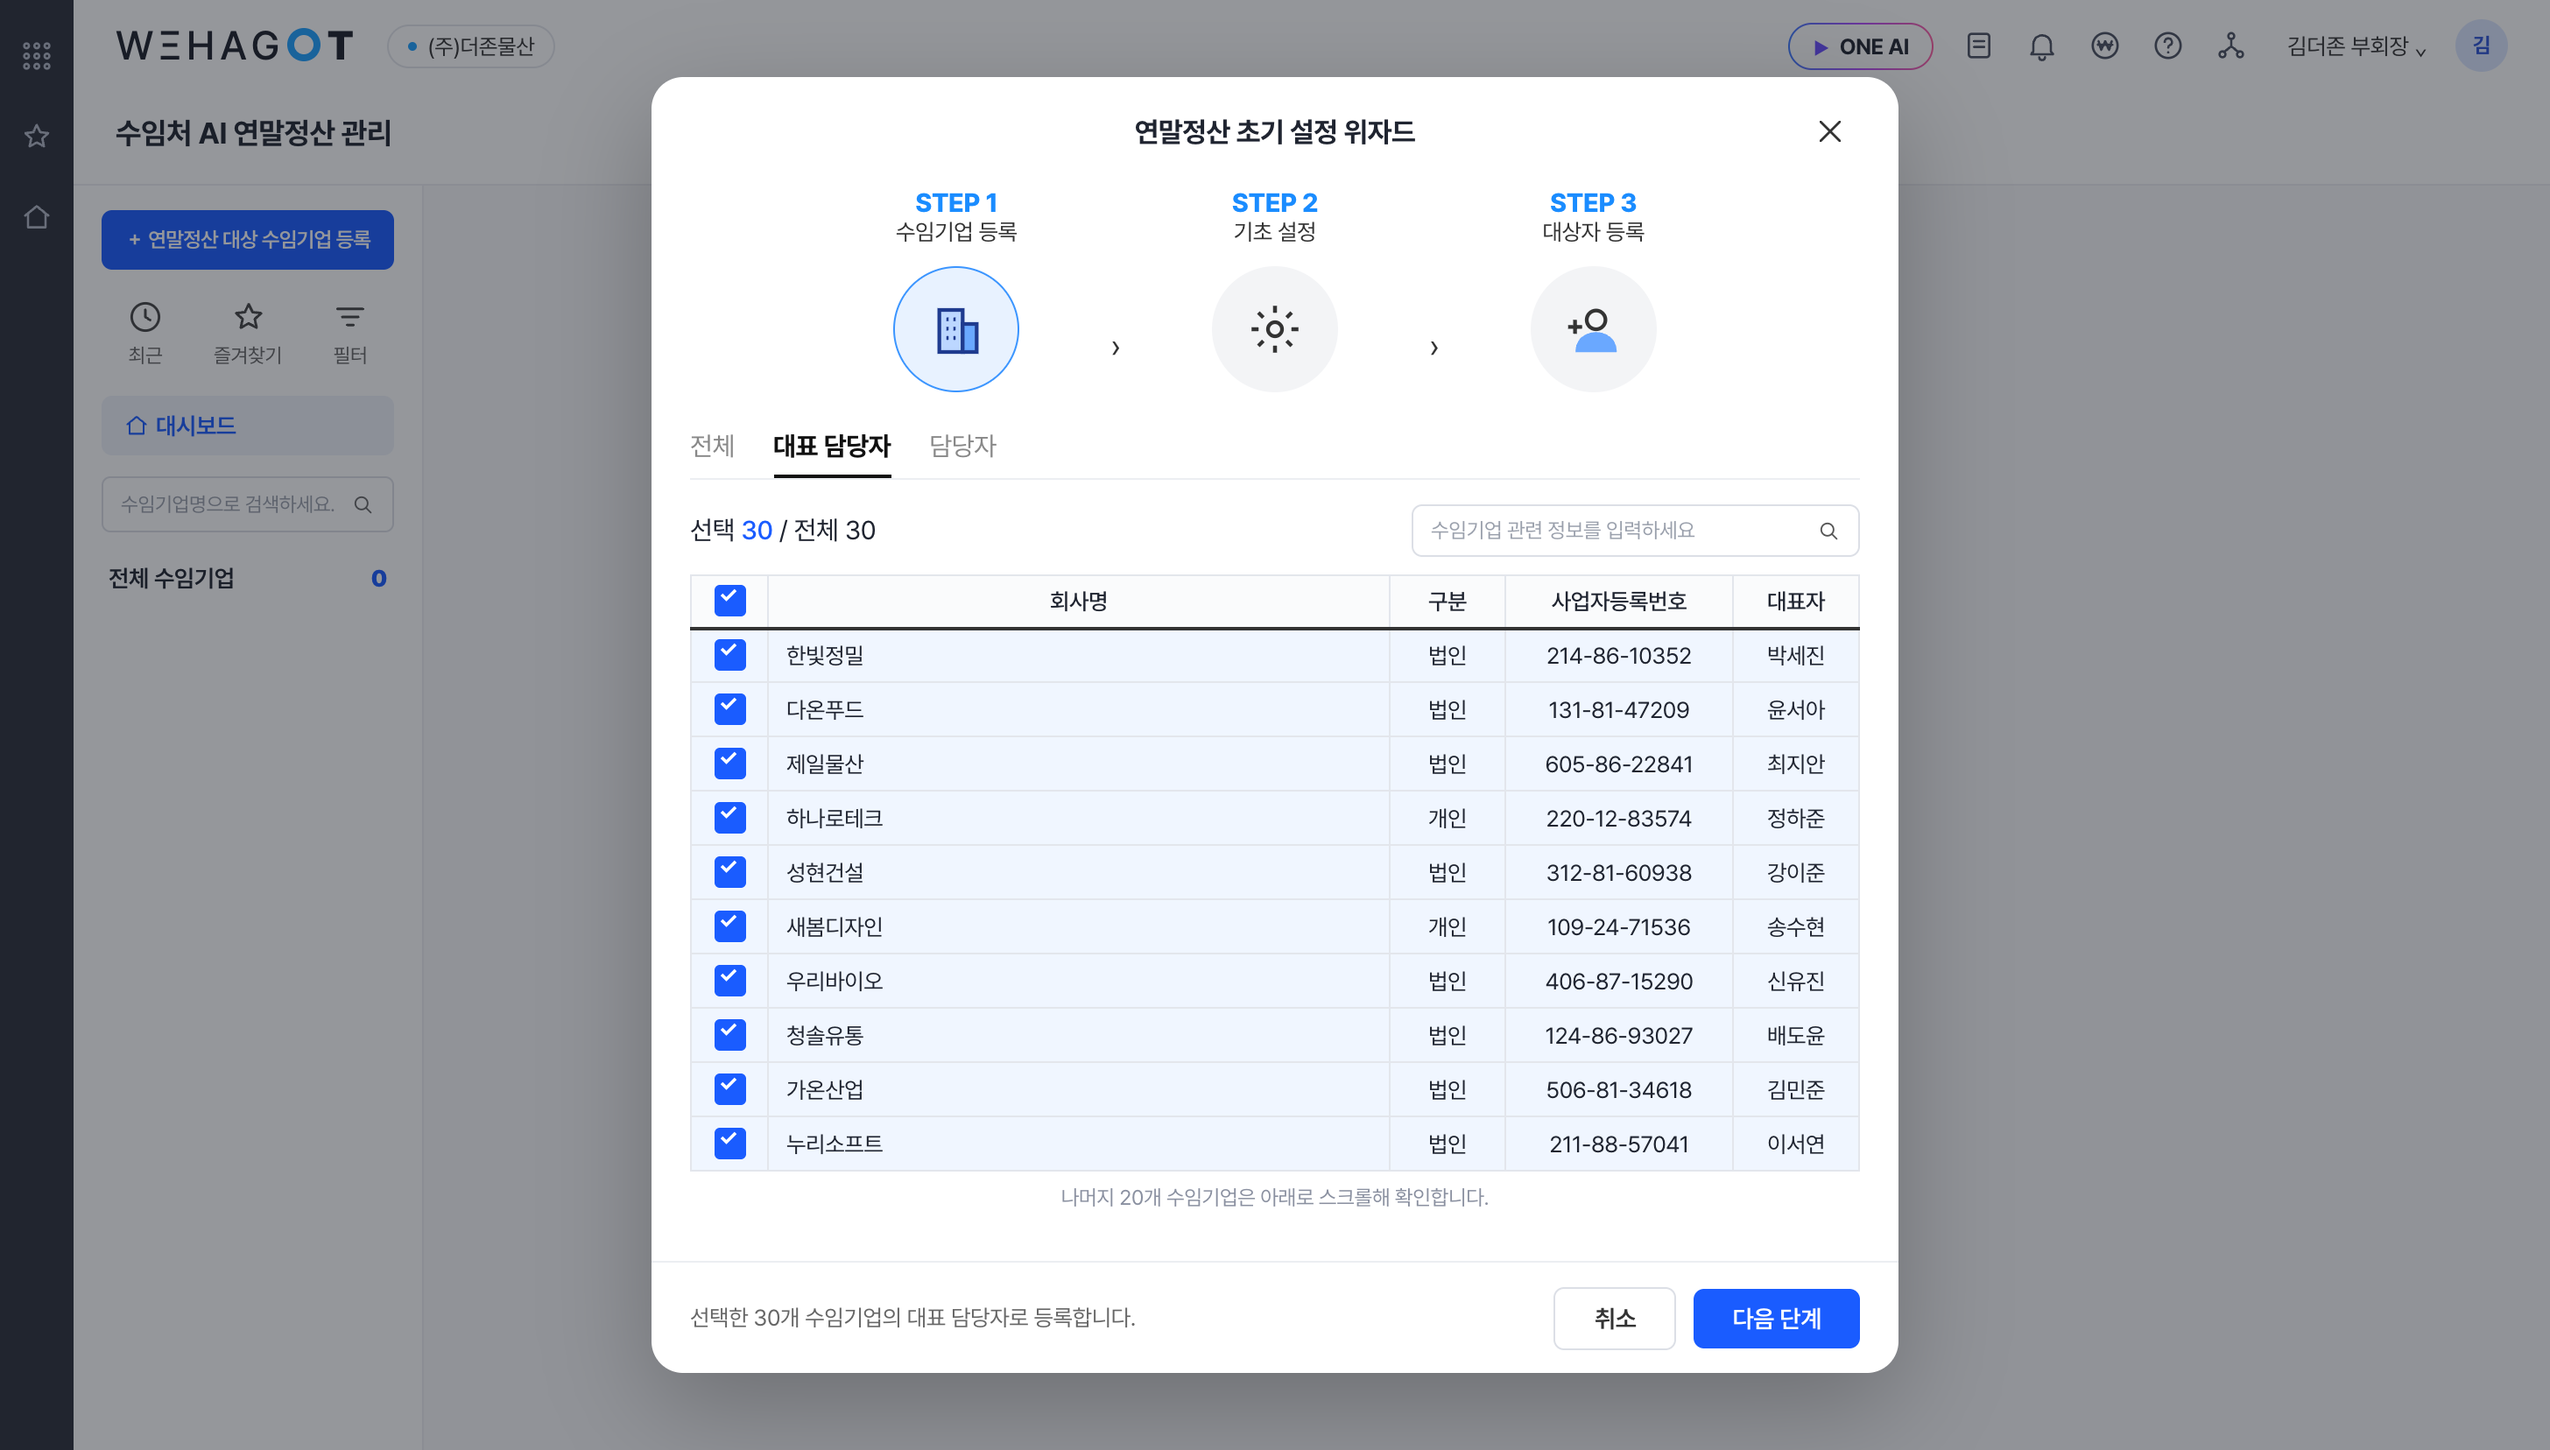
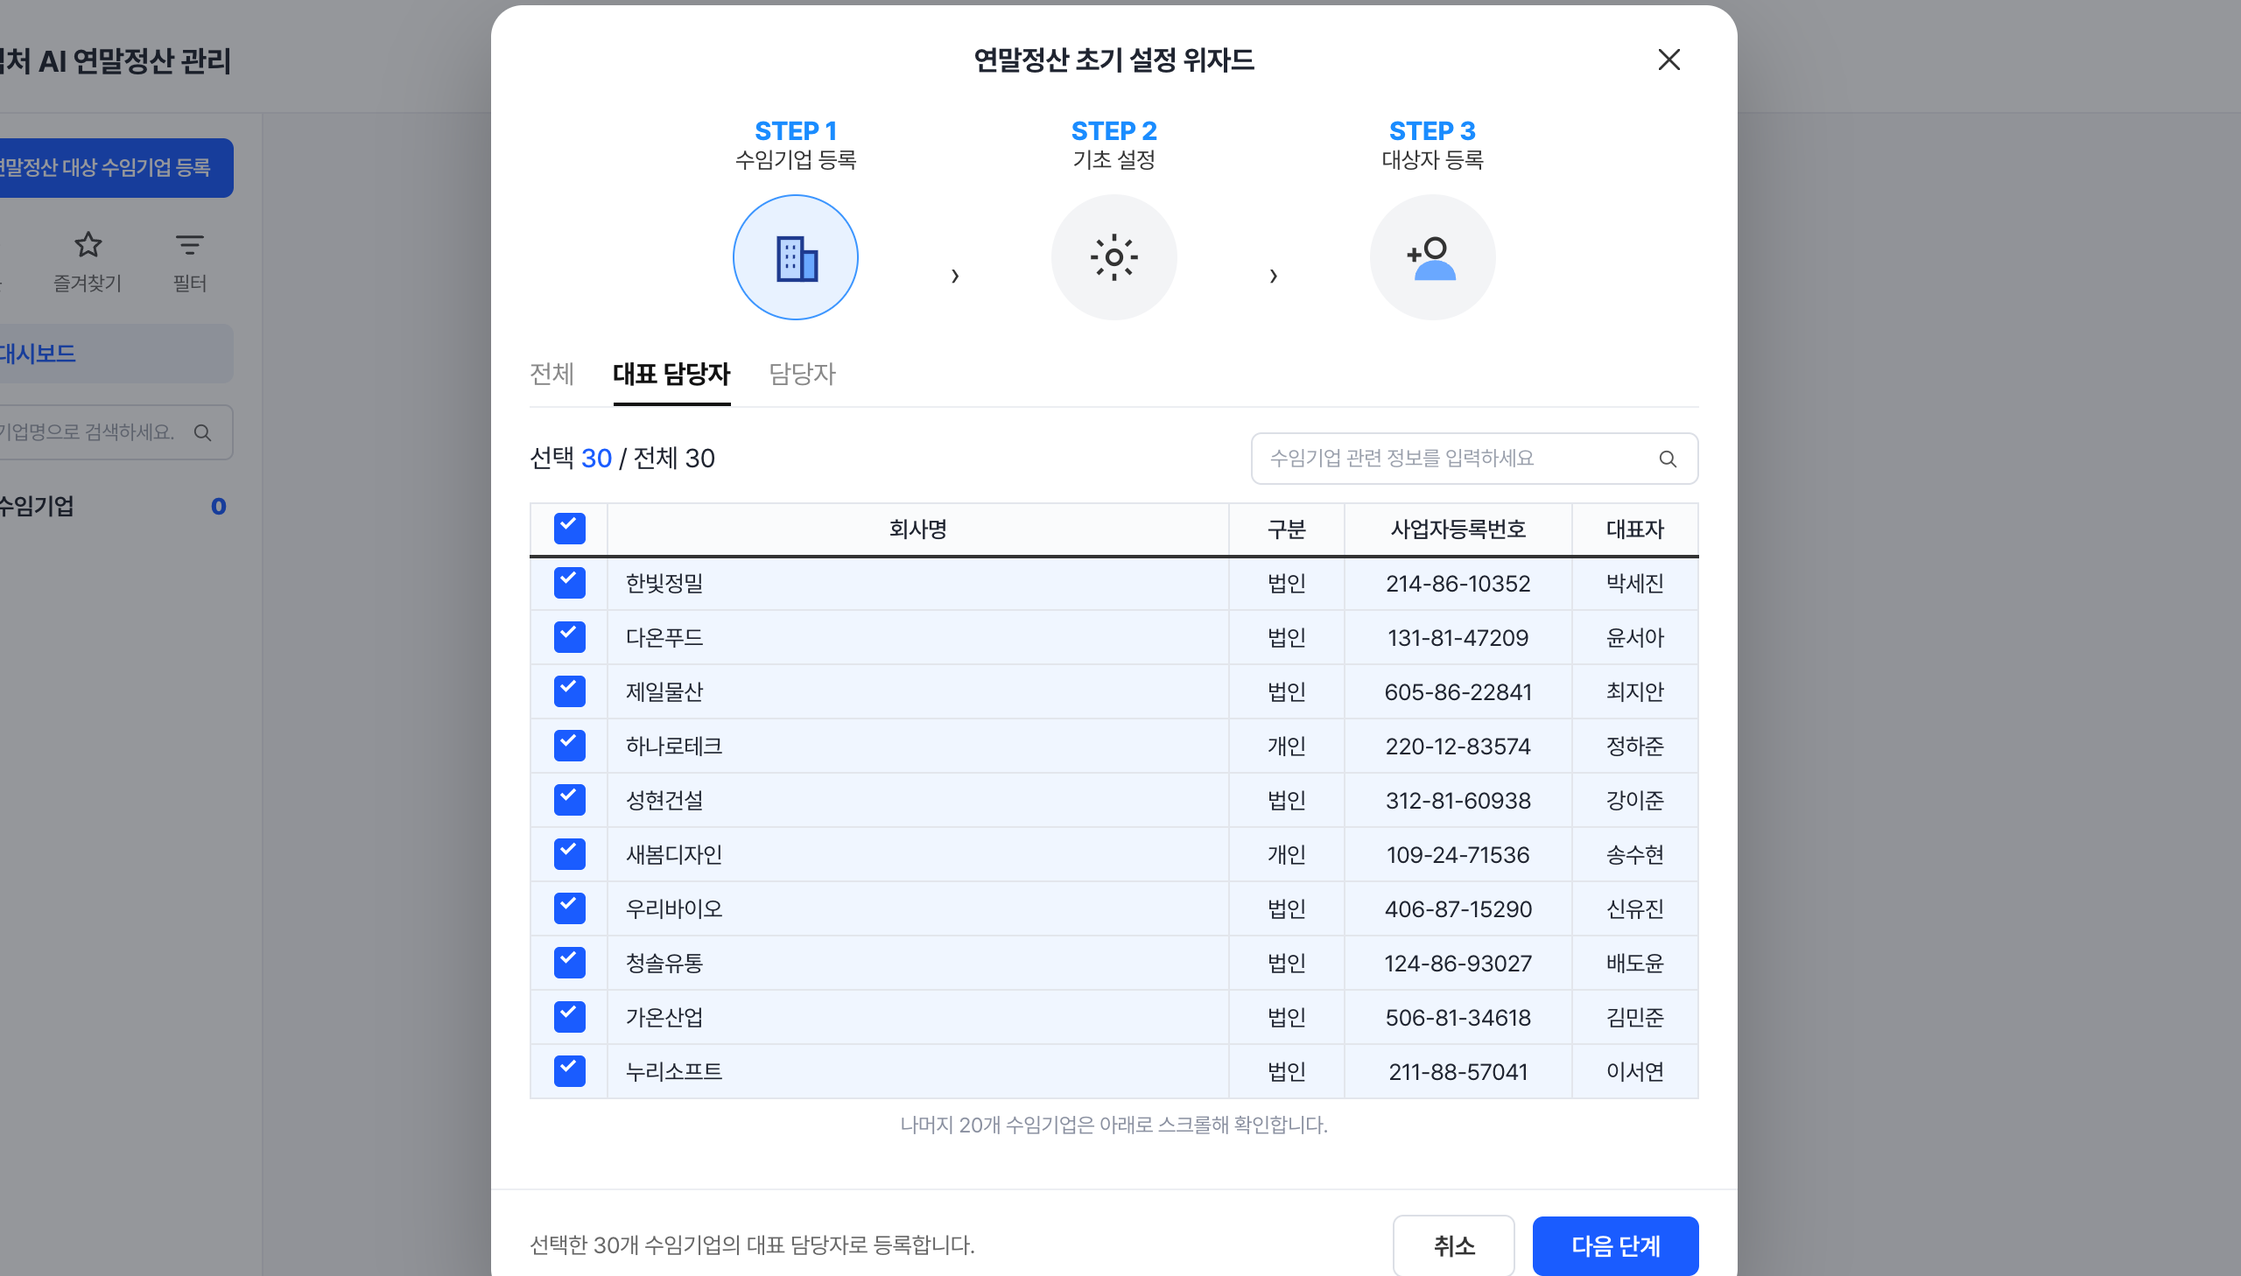
홈 히어로 스크린샷을 제품 화면 중심으로 다시 자르고 API 조사 카드를 명세형으로 바꿈
DJ Bank·연말정산 히어로는 사이드바·상단바를 걷어내고 핵심 화면만 크게 보이도록
아스펙트비에 맞춰 다시 잘랐다. case-study의 API 조사 결과 카드는 파일 아이콘 대신
POST/GET 명세를 바로 보여주도록 바꾸고, 터미널 창 색상을 tokens.css 변수로 옮겼다.

diff --git a/assets/story.css b/assets/story.css
@@ -260,13 +260,19 @@ section.chapter{ scroll-margin-top:84px; }
 .cols-2 > .prompt .cmd{ background:var(--navy); color:var(--navy-ink); border-radius:8px; padding:14px 16px; font-size:15.5px; }
 
 /* mac-style dark terminal window */
+/* 나란히 놓인 터미널 창은 결과 줄 수가 달라도 높이를 맞춘다 */
+.cols-2:has(> .term-card){ align-items:stretch; }
+/* 명세 줄이 칸을 밀어 가로 스크롤을 만들지 않게 두 칸 폭을 고정한다. 한 단으로 쌓는 760px 이하는 건드리지 않는다 */
+@media (min-width:761px){ .cols-2:has(> .term-card){ grid-template-columns:repeat(2, minmax(0,1fr)); } }
+.term-card{ display:flex; flex-direction:column; }
+.term-card .term-win{ flex:1; }
 .term-card .term-label{ font-size:14px; font-weight:700; color:var(--ink); margin-bottom:10px; }
 .term-win{ background:var(--navy); border-radius:10px; overflow:hidden; box-shadow:var(--shadow); }
 .term-bar{ display:flex; align-items:center; gap:6px; padding:10px 14px; background:rgba(255,255,255,.05); }
 .term-bar .dot{ width:10px; height:10px; border-radius:50%; flex:none; }
 .term-bar .dot.r{ background:#ff5f56; }
-.term-bar .dot.y{ background:#ffbd2e; }
-.term-bar .dot.g{ background:#27c93f; }
+.term-bar .dot.y{ background:var(--term-warn); }
+.term-bar .dot.g{ background:var(--term-ok); }
 .term-bar .term-path{ margin-left:6px; font-family:var(--mono); font-size:11.5px; color:var(--navy-ink-soft); }
 .term-body{ padding:16px 18px 20px; }
 .term-body .cmd{ font-family:var(--mono); font-size:14.5px; color:var(--navy-ink); line-height:1.6; }
@@ -276,10 +282,22 @@ section.chapter{ scroll-margin-top:84px; }
 .term-banner .term-badge svg{ width:16px; height:16px; flex:none; border-radius:4px; }
 .term-banner .term-hint{ font-size:11px; color:var(--navy-ink-soft); }
 .term-log{ margin:14px 0; padding:0; list-style:none; font-family:var(--mono); font-size:12.5px; color:var(--navy-ink-soft); line-height:2; }
-.term-log li::before{ content:'✓ '; color:#27c93f; }
-.term-ok{ font-family:var(--mono); font-size:12.5px; color:#27c93f; margin-bottom:12px; }
+.term-log li::before{ content:'✓ '; color:var(--term-ok); }
+.term-ok{ font-family:var(--mono); font-size:12.5px; color:var(--term-ok); margin-bottom:12px; }
 .term-file{ display:inline-flex; align-items:center; gap:6px; font-family:var(--mono); font-size:12px; color:var(--navy-ink); background:rgba(255,255,255,.06); border-radius:6px; padding:6px 10px; }
 .term-file svg{ width:13px; height:13px; flex:none; }
+/* API 조사 결과는 파일 대신 명세를 바로 보여 준다. 메서드 · 경로 줄 아래에 요청·응답 값을 들여 적는다 */
+.term-api{ font-family:var(--mono); font-size:12px; line-height:1.7; color:var(--navy-ink); background:rgba(255,255,255,.06); border-radius:6px; padding:10px 12px; }
+.term-api .ep{ overflow-wrap:anywhere; }
+.term-api .ep + .kv{ margin-top:2px; }
+.term-api .kv + .ep{ margin-top:10px; }
+.term-api .m{ display:inline-block; min-width:40px; margin-right:8px; font-weight:700; }
+.term-api .m.post{ color:var(--term-ok); }
+.term-api .m.get{ color:var(--term-warn); }
+/* 값이 길어 꺾이면 이어지는 줄이 라벨 밑이 아니라 값 첫 글자 밑에서 시작하도록 두 칸으로 나눈다 */
+.term-api .kv{ display:grid; grid-template-columns:36px minmax(0,1fr); padding-left:48px; color:var(--navy-ink-soft); overflow-wrap:anywhere; }
+@media (max-width:1100px){ .term-api .kv{ padding-left:0; } }
+.term-api .kv .k{ color:var(--accent-on-dark); }
 @media (max-width:640px){ .term-banner{ flex-direction:column; align-items:flex-start; gap:2px; } }
 
 /* before/after criteria */
@@ -431,7 +449,8 @@ footer.pagefoot a{ text-decoration:none; border-bottom:1px solid var(--line); }
   .section .wrap.narrow > .q + *{ margin-top:64px; }
   .section .wrap.narrow > .q:first-child + *{ margin-top:0; }
   /* 넓은 화면은 질문이 왼쪽 칸에 있어 그 위 선이 오른쪽 칸까지 안 이어지므로, 뒤따르는 답 쪽에 선을 그어 두 칸을 가로질러 보이게 한다 */
-  .section .wrap.narrow > .q:not(:first-child){ margin-top:64px; padding-top:28px; border-top:none; }
+  /* 선은 답 쪽 ::before 가 긋는다. 여기에 padding-top 을 두면 제목만 그만큼 내려가 답 첫 줄과 어긋난다 */
+  .section .wrap.narrow > .q:not(:first-child){ margin-top:64px; padding-top:0; border-top:none; }
   /* 답 쪽도 질문과 같은 64px 로 띄워야 같은 줄(grid row)에서 위쪽이 맞는다. 여기를 28px 로 줄이면
      질문 제목보다 답 블록이 위로 붙어 버린다. 선은 그 64px 여백 안, 표·박스 테두리보다 위쪽에 따로 그어
      표가 선에 닿지 않게 한다 */
@@ -507,6 +526,8 @@ footer.pagefoot a{ text-decoration:none; border-bottom:1px solid var(--line); }
 }
 .motion .mv.is-in{ opacity:1; transform:none; }
 .motion .chapter .num.mv{ transform:translateX(-24px); }
+/* 위 줄이 .mv.is-in 보다 우선순위가 높아 번호가 24px 왼쪽에 남는다. 등장한 뒤 원위치로 돌린다 */
+.motion .chapter .num.mv.is-in{ transform:none; }
 .motion .chapter h2.mv{ transition-delay:.12s; }
 .motion .chapter h2::before{ transform-origin:0 50%; transform:scaleX(0); transition:transform .8s cubic-bezier(.2,.7,.2,1) .35s; }
 .motion .chapter h2.is-in::before{ transform:scaleX(1); }

diff --git a/case-study.html b/case-study.html
@@ -195,11 +195,17 @@
               <div class="cmd">위키에서 급여이체 API 찾아줘</div>
               <ul class="term-log">
                 <li>위키 문서 검색</li>
-                <li>급여이체 API 스펙 확인</li>
-                <li>정리본 작성</li>
+                <li>급여이체 API 명세 확인</li>
+                <li>요청·응답 값 정리</li>
               </ul>
-              <div class="term-ok">✓ API 정리본이 생성되었습니다.</div>
-              <div class="term-file"><svg viewBox="0 0 24 24" fill="none" stroke="currentColor" stroke-width="2" stroke-linecap="round" stroke-linejoin="round"><path d="M14 2H6a2 2 0 0 0-2 2v16a2 2 0 0 0 2 2h12a2 2 0 0 0 2-2V8z"/><path d="M14 2v6h6"/></svg>payroll-transfer-api.md</div>
+              <div class="term-ok">✓ 급여이체 API 2건을 정리했습니다.</div>
+              <div class="term-api">
+                <div class="ep"><span class="m post">POST</span>/v1/payroll/transfers</div>
+                <div class="kv"><span class="k">요청</span><span>companyId, payDate, items[ ]</span></div>
+                <div class="kv"><span class="k">응답</span><span>200 { transferId, status }</span></div>
+                <div class="ep"><span class="m get">GET</span>/v1/payroll/transfers/{transferId}</div>
+                <div class="kv"><span class="k">응답</span><span>200 { status, failCode }</span></div>
+              </div>
             </div>
           </div>
         </div>

diff --git a/assets/tokens.css b/assets/tokens.css
@@ -32,6 +32,8 @@
   --fail-soft:#fff6f0;
   --fail-line:#f6d5c2;
   --accent-on-dark:#8fa8ff;  /* 어두운 판 위의 포인트 */
+  --term-ok:#27c93f;         /* 터미널 창의 완료 표시·POST 메서드 */
+  --term-warn:#ffbd2e;       /* 터미널 창의 GET 메서드·노란 점 */
 
   /* 어두운 판(글 페이지 표지·마무리) */
   --navy:#0f1830;
